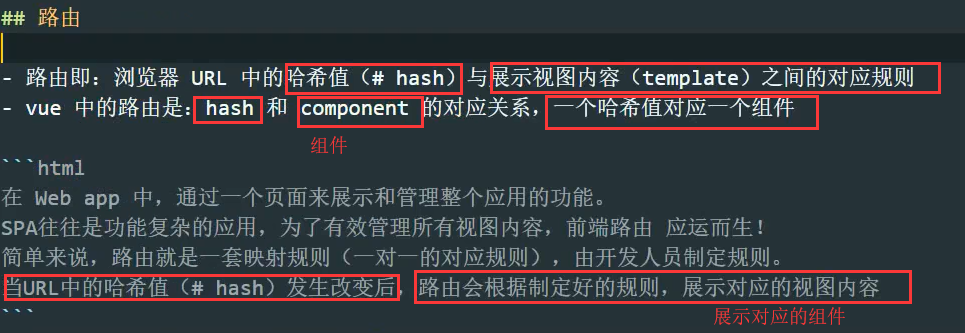
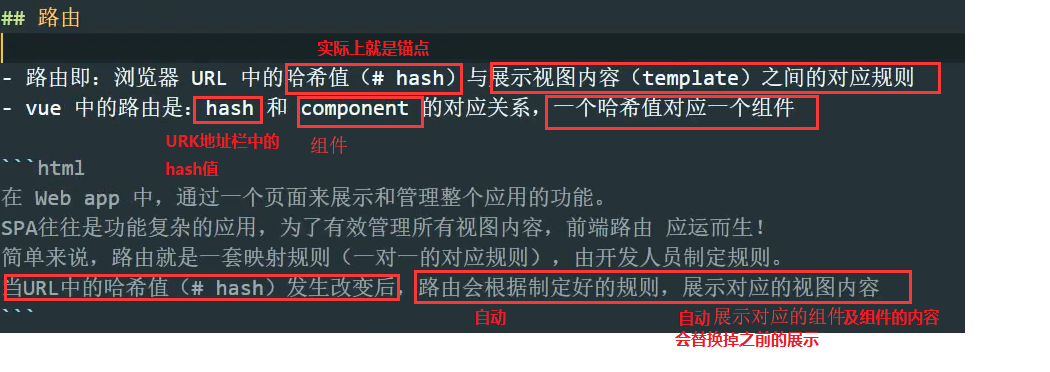
0322-04

diff --git a/14-Vue开发/day06/4-code/05-vue中路由的基本使用.html b/14-Vue开发/day06/4-code/05-vue中路由的基本使用.html
@@ -13,11 +13,16 @@
     <ul>
       <li>
         <!-- 入口：实际上就是一个a标签 -->
+        <!-- router-link也是vue-router.js中提供的组件, 所以需要写在视图或模板视图template中 -->
+        <!-- 会被解析成一个a标签, href="#/home", 即锚点跳转 -->
         <router-link to="/home">首页</router-link>
       </li>
     </ul>
 
     <!-- 指定路由出口 -->
+    <!-- router-view就是vue-router.js 中提供的组件, 所以需要写在视图或模板视图template中 -->
+    <!-- 将来匹配的路由对应的组件展示在此处 -->
+    <!-- 会将这次#hash值匹配的组件替换掉上次#hash值匹配的组件, 然后展示, 即覆盖展示 -->
     <router-view></router-view>
   </div>
 
@@ -28,21 +33,42 @@
     // 1 安装: npm i -S vue-router
     // 2 引入 vue-router (vue-router依赖于vue, 需要先引入vue)
     // 3 创建路由规则
-    // 4 将路由实例与vue实例关联到一起
+    // 4 将路由实例与vue实例关联到一起, 即在vue实例中定义router属性, 一个vue实例/组件只能关联一个路由
     // 5 配置路由规则
-    //    哈希值 和 组件 的对应关系
-    // 6 指定路由出口（ 表示将当前匹配的路由展示在页面中的哪个位置 ）
+    //    地址栏中URL的哈希值(#hash, 实际上就是URL中的锚点) 和 组件 的对应关系
+    // 6 指定路由出口（ 表示将当前URL路径匹配的路由对应的那一个组件要展示在页面中的哪个位置 ）
+    //   一个路由router只能有一个出口, 会将该路由所有匹配的组件, 都会在这一个出口处 用路由新匹配的组件替换原来匹配的组件并展示在出口处
 
+
+    // 路由会自动监听URL中的#锚点(#hash值)变化, 并且会自动根据制定好的路由规则去与URL中的#锚点做匹配, 重新初始化#hash值匹配的路由规则中对应的组件及组件的内容(生命周期钩子函数会重新被执行)并覆盖展示到路由的出口处 (会替换掉之前的展示)
+
+    // 全局组件
     const Home = Vue.component('home', {
       template: `
         <h1>这是 Home 组件</h1>
       `
     })
 
+    // 局部组件
+    const PartHome = {
+      template: `
+        <h1>这是局部 Home 组件</h1>
+      `
+    }
+
     // 创建路由实例
     const router = new VueRouter({
+      // 配置路由规则, 可以配置多个
+      // 将URL中#锚点 (又称#hash) 的hash值与下面path进行匹配
       routes: [
-        { path: '/home', component: Home }
+        // path: URL中的#锚点, 即#hash值 (此处省略#, 在路由做匹配的时候会自动加上#). component: URL中#hash值对应的组件
+        // component 可以是全局组件, 也可以是局部组件(js对象), 局部组件
+
+        // path说明:
+        //  1.可以写多层路径, 比如/home/user
+        //  2. 必须完全匹配, 不能多也不能少
+        { path: '/home', component: Home }, // 全局组件
+        { path: '/parthome', component: PartHome } // 局部组件, 由于是在路由中去使用, 由路由去自动帮我们注册局部组件, 我们在vue实例中就不用注册局部组件了
       ]
     })
 
@@ -52,7 +78,8 @@
 
       },
       // 将路由与实例关联到一起
-      router
+      // router: router
+      router // 简写
     })
   </script>
 </body>

diff --git a/14-Vue开发/day06/4-code/09-Vue中路由参数.html b/14-Vue开发/day06/4-code/09-Vue中路由参数.html
@@ -20,6 +20,9 @@
       <li>
         <router-link to="/stu/1002">学生 2</router-link>
       </li>
+      <li>
+        <router-link to="/stu/1003/张三">学生 2</router-link>
+      </li>
     </ul>
 
     <router-view></router-view>
@@ -40,7 +43,21 @@
         <div>
           <p>这是第一个学生 {{ $route.params.id }}</p>
         </div>
-      `
+      `,
+      created() {
+        console.log(this.$route.params.id)
+      }
+    }
+
+    const Stu1 = {
+      template: `
+        <div>
+          <p>这是第一个学生 {{ $route.params.id }} 名字为 {{ $route.params.name }}</p>
+        </div>
+      `,
+      created() {
+        console.log(this.$route.params.id, this.$route.params.name)
+      }
     }
 
     const router = new VueRouter({
@@ -50,8 +67,11 @@
 
         // :id 就是路由参数
         // 匹配的哈希值为： /stu/1001 或 /stu/1002 或 /stu/abc
-        // 无法匹配的哈希值为： /stu 或 /stu/ 或 /stu/1001/ab
+        // 无法匹配的哈希值为： /stu 或 /stu/ 或 /stu/1001/ab  不能多, 也不能少
         { path: '/stu/:id', component: Stu },
+        // 匹配的哈希值为： /stu/1001/zs 或 /stu/1002/ls 或 /stu/abc/def
+        // 无法匹配的哈希值为： /stu/1001 或 /stu/1001/ 或 /stu/1001/ab/cc  不能多, 也不能少
+        { path: '/stu/:id/:name', component: Stu1 }, // 路由参数可以传多个
         // { path: '/stu/1001', component: Stu1 },
         // { path: '/stu/1002', component: Stu2 },
       ]

diff --git a/14-Vue开发/day06/4-code/15-webpack-basic/src/main - 1 命令行使用方式.js b/14-Vue开发/day06/4-code/15-webpack-basic/src/main - 1 命令行使用方式.js
@@ -1,8 +1,8 @@
 // webpack 的使用步骤：
 // 1 安装： npm i -D webpack webpack-cli
 // 2 webpack 使用的两种方式：
-//  2.1 命令行的使用方式（知道）
-//  2.2 配置文件
+//  2.1 命令行的使用方式（知道即可）
+//  2.2 配置文件 (推荐)
 
 // webpack的四个核心概念：
 // 1 入口 entry
@@ -11,8 +11,8 @@
 // 4 plugins 插件
 
 // 演示命令行的使用方式：
-// webpack 入口文件 出口文件路径
-// 最基本的打包: webpack ./src/main.js
+// 打包命令: webpack 入口文件 出口文件路径(打包后内容输出的目录)
+// 最基本的打包命令: webpack ./src/main.js (默认出口文件输出在dist目录下)
 
 // 注意:使用 webpack 的时候应该提供mode, 可以是: production 或者 development
 // production 表示: 生产模式    -- 生产环境(也就是给用户使用的)
@@ -21,8 +21,8 @@
 // 指定模式: .\node_modules\.bin\webpack ./src/main.js --mode development
 // 指定为生产模式: .\node_modules\.bin\webpack ./src/main.js --mode production
 
-// 演示指定出口文件路径:
-//  .\node_modules\.bin\webpack ./src/main.js -o ./dist/a.js --mode production
+// 演示指定出口文件路径的打包 (不用默认出口文件路径) :
+//  .\node_modules\.bin\webpack ./src/main.js -o ./dist/a.js --mode production  // 需要指定输出的文件名, 将来将打包输出的内容输出到此文件中
 
 const fn = () => {
   console.log('main.js 中的fn 执行了')

diff --git a/14-Vue开发/day06/4-code/11-嵌套路由.html b/14-Vue开发/day06/4-code/11-嵌套路由.html
@@ -62,12 +62,16 @@
         {
           path: '/user',
           component: User,
-          // 子路由配置：
+          // 子路由配置： (一个路由规则可以配置多个子路由规则)
+          // 子路由 也是路由, 也具有之前路由的特性, 子路由的出口只能写在所在的父级路由规则对应的组件的视图模板template中, 且也只能有一个出口, 且在出口处覆盖展示
+          // 子路由对应的组件只能在所在的父级路由规则对应的组件的视图模板template中使用并展示
+          // 要先匹配子路由所在的父级路由规则, 这样父级路由中会展示子路由所在的父级路由规则对应的组件, 然后在匹配所在的父级路由规则的基础上再匹配子路由, 这样就会在所在的父级路由规则的对应的组件里展示匹配的子路由对应的组件
+          // 这样 所在的父级路由规则对应的组件 以及 子路由规则对应的组件, 都会展示到页面上了
           children: [
             {
               // 当 /user/profile 匹配成功，
-              // UserProfile 会被渲染在 User 的 <router-view> 中
-              path: 'profile',
+              // UserProfile组件 会被渲染在 User 的 <router-view> 中
+              path: 'profile', // 不需要写/
               component: UserProfile
             },
             {

diff --git a/14-Vue开发/day06/4-code/10-Vue中路由参数 - 说明.html b/14-Vue开发/day06/4-code/10-Vue中路由参数 - 说明.html
@@ -53,9 +53,10 @@
         }
       },
 
-      // vue为了高效的渲染组件，如果从 /stu/1001 直接跳转到 /stu/1002 的时候，会复用这个组件
-      // 这就导致了组件的 created 钩子函数不会再次执行
-      // 如何解决？？？通过监听 $route 的变化，来解决
+      // 如果路由从 /stu/1001 ★★★直接跳转到 /stu/1002 的时候，由于对应的是同一个路由规则, 所以对应的是同一个组件, vue为了高效的渲染组件， 会复用这个组件 虽然 ★ 视图会根据最新的路由参数自动做出重新渲染
+      // 但是由于是复用组件, 组件的声明周期钩子函数不会再执行了, 这就导致了组件的 created 钩子函数不会再次执行
+      // 如何解决？？？通过监听 $route 的变化，来解决, 只要路由改变就会被这个watch监听到, 然后调用执行处理函数, 在对应的处理函数里可以拿到路由参数, 做出相应的逻辑处理
+      // 注意: 必须是从/stu/1001直接跳转到 /stu/1002, 这样才算是同一个组件间进行切换, 如果是从/stu/1001先跳转到其他组件再跳回/stu/1002, 则组件不会复用, 会重新初始化(生命周期钩子函数也会重新执行), 也就没有上面那个问题了
       created() {
         // console.log('获取到路由参数：', this.$route.params.id)
 

diff --git a/14-Vue开发/day06/4-code/13-路由高亮 - 两个类名的区别说明.html b/14-Vue开发/day06/4-code/13-路由高亮 - 两个类名的区别说明.html
@@ -11,7 +11,7 @@
       background-color: pink;
     }
 
-    /* 
+    /*
       .router-link-exact-active 精确匹配的类名
       .router-link-active 模糊匹配的类名
 
@@ -34,7 +34,9 @@
   <div id="app">
     <router-link to="/home">首页</router-link>
 
-    <!-- 添加 exact 属性后，那么这个菜单的的高亮样式就变为精确匹配了，也就是说：只有 哈希值 与 当前to属性的值 完全相同的时候，才会给当前菜单添加高亮类名；如果仅仅是包含该to属性的值，那么，就不会再添加高亮类名了 -->
+    <!-- 默认是模糊匹配的 -->
+    <!-- 添加 exact 属性后，那么这个菜单的的高亮样式就变为精确匹配了，也就是说：只有 哈希值 与 当前to属性的值 完全相同的时候，才会给当前菜单添加高亮类名  router-link-exact-active 和 router-link-active
+    如果仅仅是包含该to属性的值，那么，就不会再添加任何高亮类名了 -->
     <router-link to="/user" exact>用户管理</router-link>
 
     <router-view></router-view>

diff --git a/14-Vue开发/day06/4-code/14-webpack的介绍.html b/14-Vue开发/day06/4-code/14-webpack的介绍.html
@@ -13,12 +13,12 @@
     // webpack 是前端最流行的打包工具
 
     // webpack 能做什么：
-    // 
+    //
     // 1 将 sass/less 等预编译的CSS语言 转化为 浏览器能够识别的 css 文件
-    // 2 能够将多个文件（比如：多个sass文件）打包生成一个文件
-    // 3 能够打包 images/styles/assets/scripts 等前端常见的文件
+    // 2 能够将多个文件（比如：多个sass文件, js文件）打包生成一个文件
+    // 3 能够打包 images/styles/assets(静态资源文件)/scripts 等前端常见的文件
     // 4 搭建了开发环境（开启了服务器）
-    // 5 监视文件变化，文件改变后，能够自动刷新浏览器
+    // 5 监视文件变化，文件改变后，能够自动刷新浏览器 (推荐将编译器中自动保存功能去掉, 否则会频繁触发该功能 ... )
     // 6 对于Vue来说，可以将 单文件组件（*.vue） 类型的文件，转化为浏览器能够识别的内容
 
     // 项目打包上线：

diff --git a/14-Vue开发/day06/4-code/06-Vue中路由的重定向.html b/14-Vue开发/day06/4-code/06-Vue中路由的重定向.html
@@ -22,13 +22,13 @@
   <script src="./vue-router.js"></script>
   <script>
     // 路由匹配展示的过程：
-    // 
+    //
     // 1 当点击a标签（或者直接修改浏览器地址栏中的哈希值）会改变哈希值
     // 2 当哈希值发生改变，Vue路由就会监听到这个变化
     // 3 当路由监听到哈希值改变以后，就会用配置好的路由规则来匹配当前的哈希值
-    // 4 当哈希值被匹配成功，就会将当前路由规则对应的组件展示在页面中 router-view 中
+    // 4 当哈希值被匹配成功，就会将当前路由规则对应的组件重新初始化(生命周期钩子函数会被执行)并展示在页面中 router-view 中
 
-    // 路由默认的 path 为： /
+    // 路由默认的 path 为： /, 配置了路由后, 第一次进入页面, 会自动在url后加上#/, 即url中默认的锚点为#/, 并且会自动进行匹配一次路由
 
     const Home = {
       template: `

diff --git a/14-Vue开发/day06/4-code/03-SPA-demo/index.html b/14-Vue开发/day06/4-code/03-SPA-demo/index.html
@@ -16,7 +16,7 @@
 <body>
 	<ul>
 		<li>
-			<!--a标签的锚点跳转会改变浏览器地址栏中的URL, 会在URL后加上#锚点id-->
+			<!--a标签的锚点跳转会改变浏览器地址栏中的URL, 会在当前URL后面加上#锚点id(若已有#锚点id, 则会进行覆盖)-->
 			<a href="#/find">发现音乐</a>
 		</li>
 		<li>
@@ -44,7 +44,7 @@
 		// 进入页面，就触发这个函数来获取当前哈希值对应的内容, 更细页面
 		handlerChange()
 
-		// a标签的锚点跳转会改变浏览器地址栏中的URL, 会在URL后加上#锚点id
+		// a标签的锚点跳转会改变浏览器地址栏中的URL, 会在当前URL后面加上#锚点id(若已有#锚点id, 则会进行覆盖)
 		// 监听地址栏url中锚点部#..的变化, 只要变化, 就会触发hashchange事件, 调用对应的事件处理函数, 请求数据, 重新渲染页面
 		window.addEventListener('hashchange', handlerChange)
 

diff --git a/14-Vue开发/day06/4-code/12-路由高亮.html b/14-Vue开发/day06/4-code/12-路由高亮.html
@@ -21,6 +21,14 @@
 
 <body>
   <div id="app">
+    <!--
+      router-link会自动监听地址栏中URL的#锚点(#哈希值)部分, 并与to的值进行比较 (比较时不带#)
+      若to属性值包含(包括等于)在当前URL的#锚点部分, 则会在router-link转换成的a标签里添加类名 router-link-active
+      若to属性值与当前URL的#锚点部分相同, 则会在router-link转换成的a标签里添加类名 router-link-exact-active
+      特殊: 相同时, 这2个类名都具有
+    -->
+
+
     <router-link to="/home">首页</router-link>
     <router-link to="/user">用户管理</router-link>
 
@@ -86,7 +94,7 @@
         }
       ],
 
-      // 修改默认高亮类名
+      // 修改当前路由的默认高亮类名 router-link-active 为 itcast
       linkActiveClass: 'itcast'
     })
 

diff --git a/00-html+css基础/day01/04-源代码/11-锚点跳转.html b/00-html+css基础/day01/04-源代码/11-锚点跳转.html
@@ -5,7 +5,8 @@
 	<title>Document</title>
 </head>
 <!--
-	a标签的锚点跳转会改变浏览器地址栏中的URL, 会在URL后加上#锚点id
+	a标签的锚点跳转会改变浏览器地址栏中的URL, 会在当前URL地址的后面加上#锚点id (若已有#锚点id, 则会进行覆盖)
+	锚点跳转不会触发页面跳转, 即不会发送新的请求
 -->
 <body>
 	<p id="recall">又回到最初的起点！！</p>
